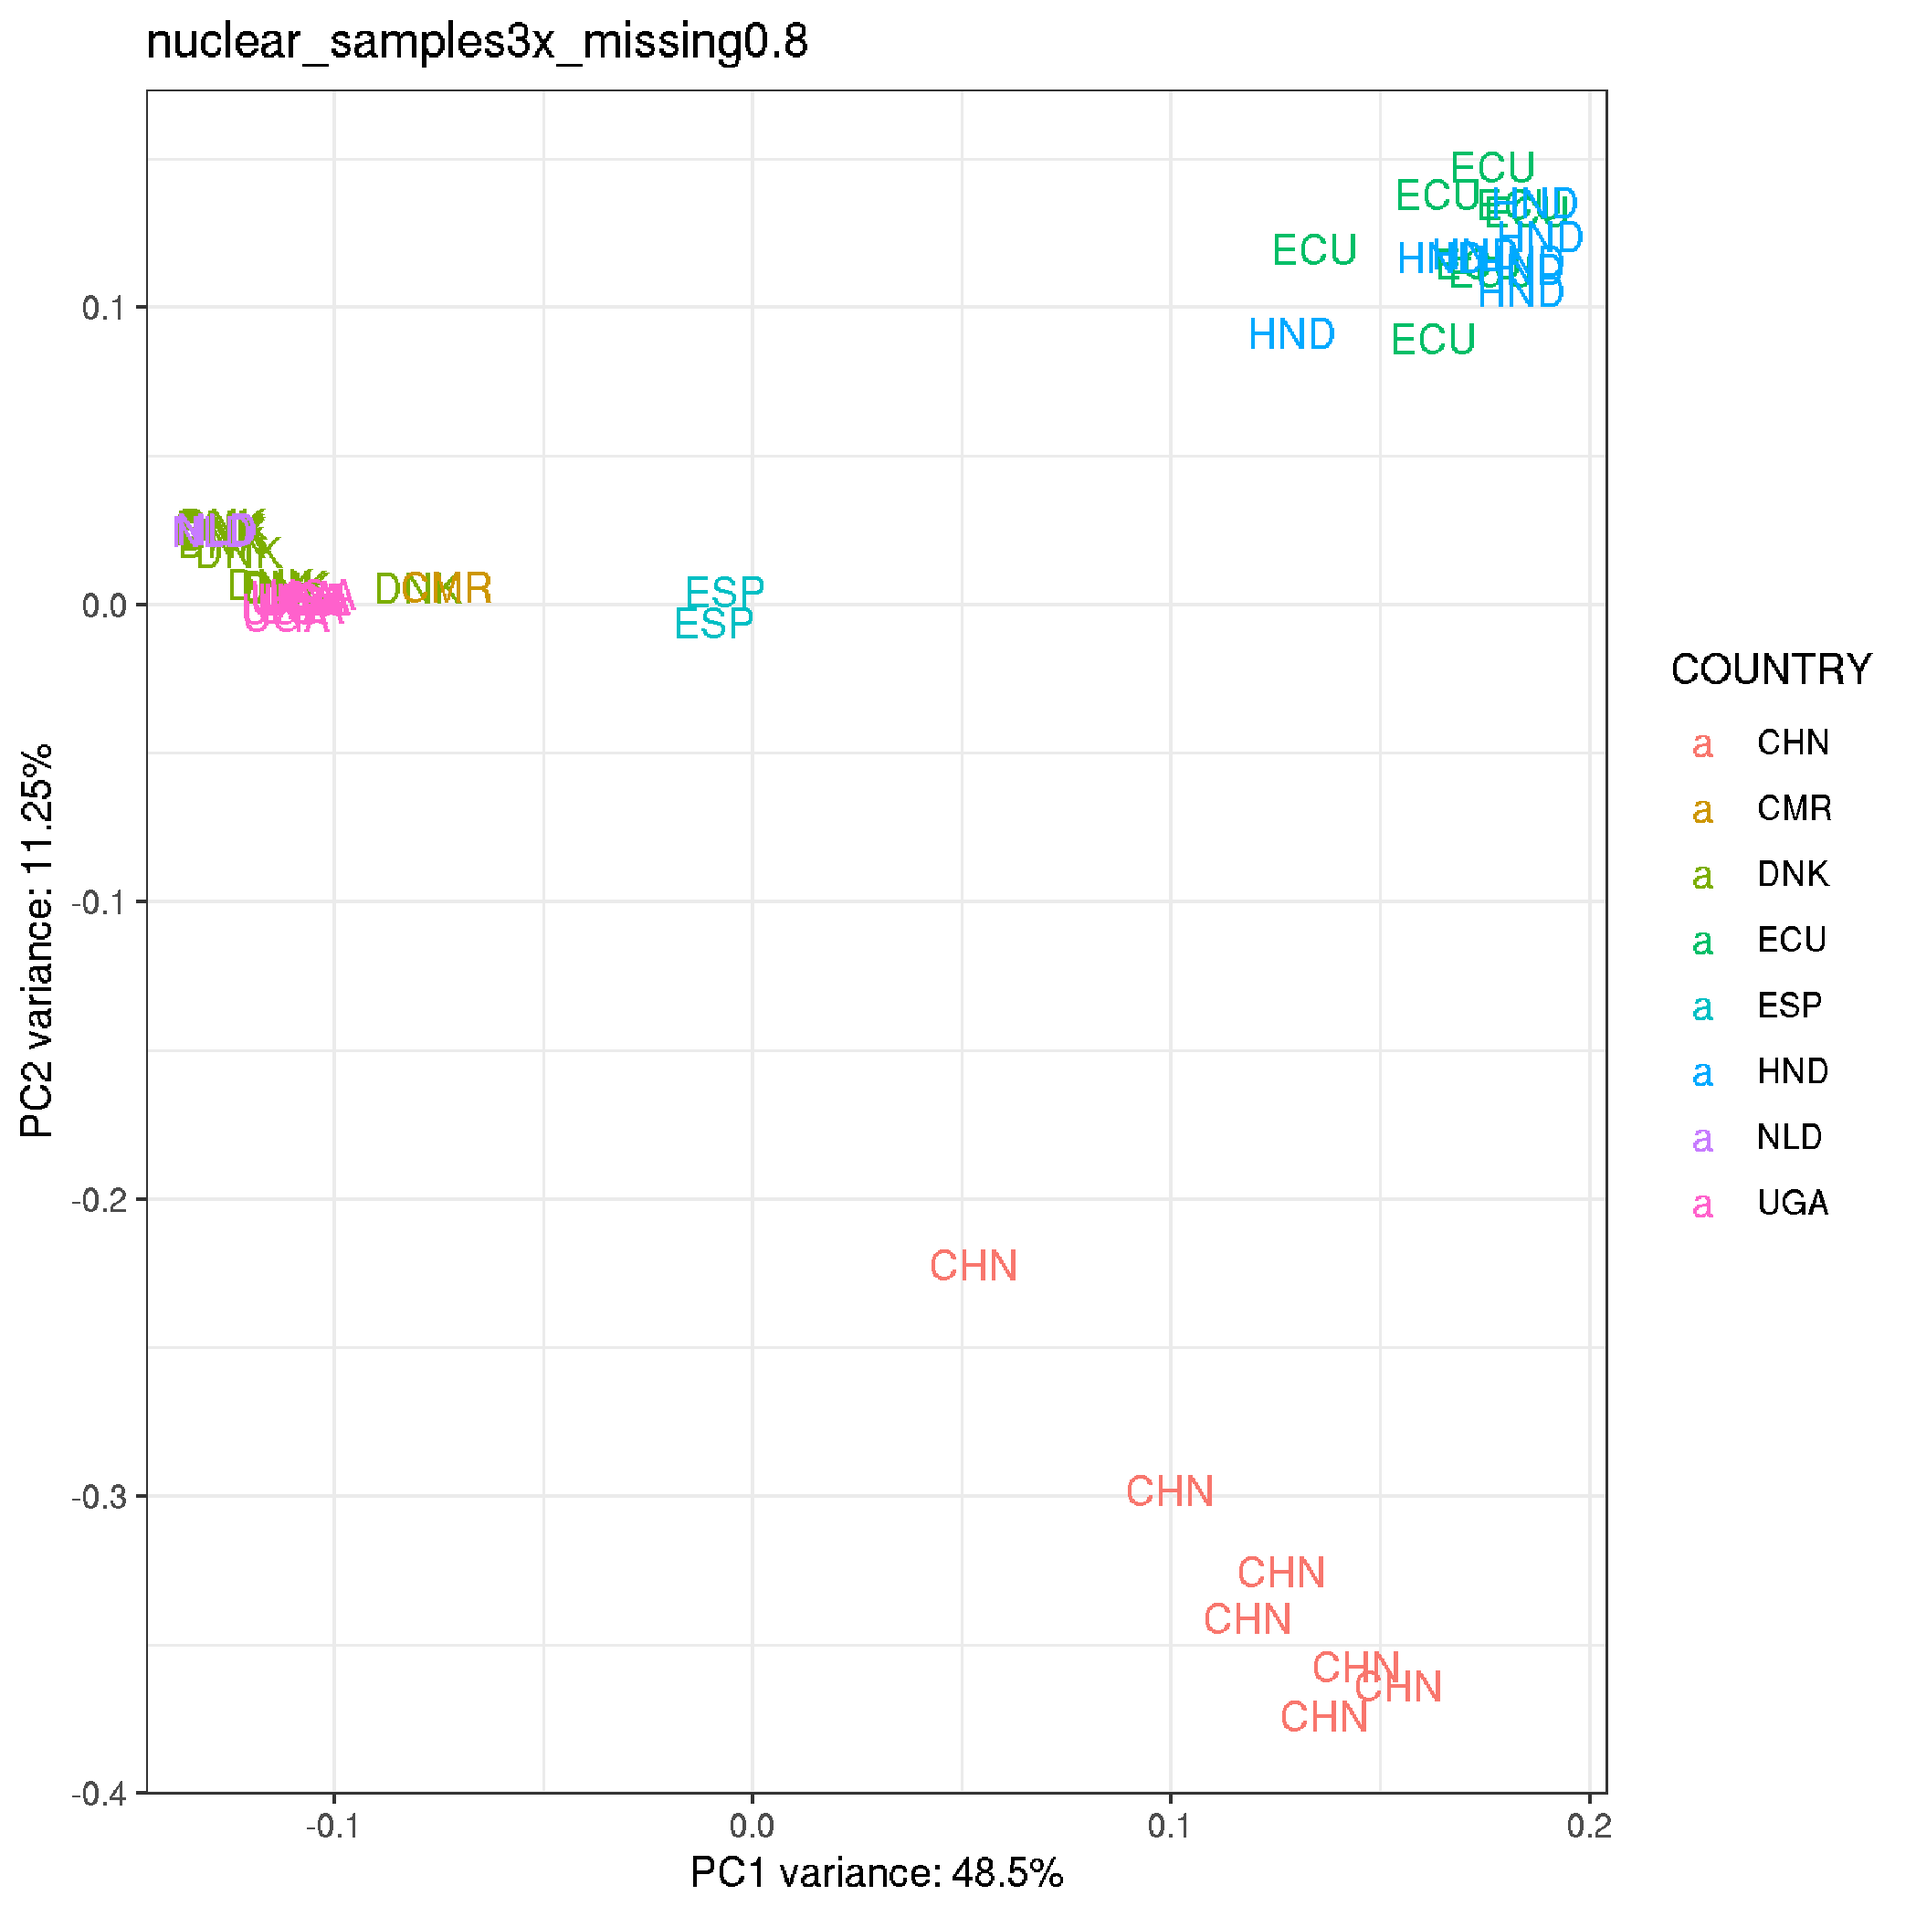
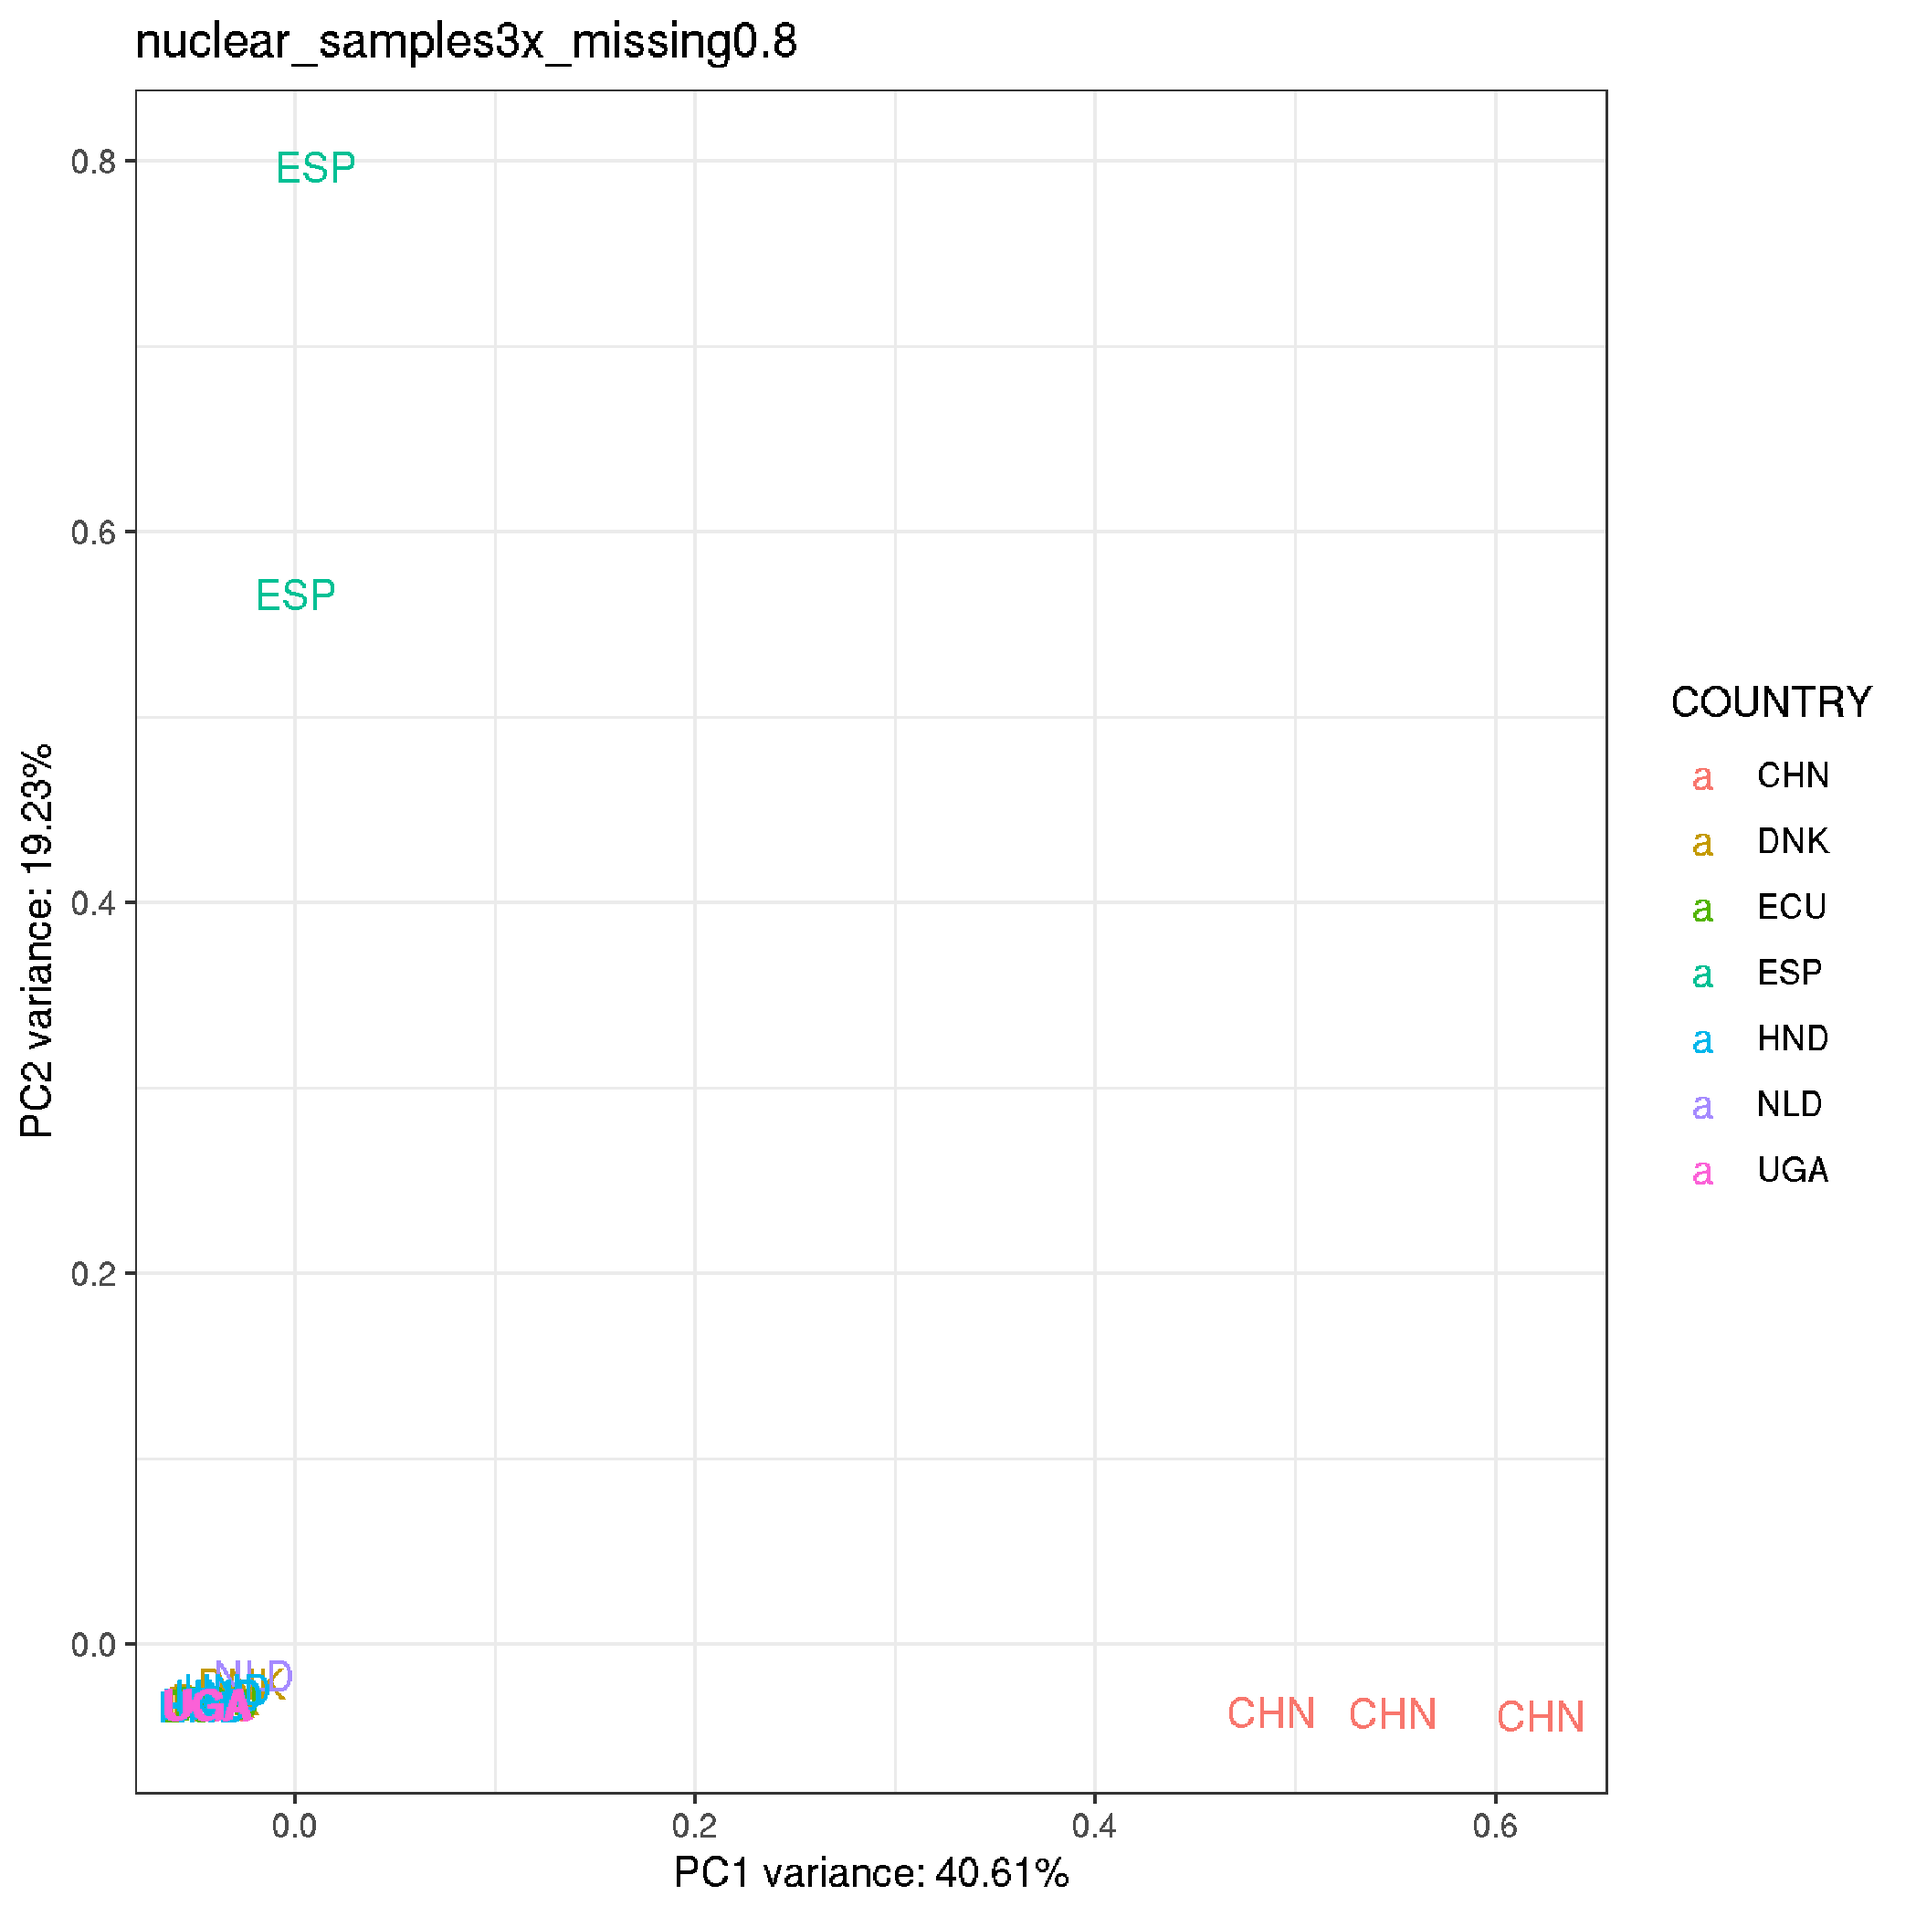
update

diff --git a/03_code/ancient_trichuris.workbook.md b/03_code/ancient_trichuris.workbook.md
@@ -1838,7 +1838,7 @@ vcftools \
 --out nuclear_samples3x_missing0.8
 
 #> After filtering, kept 44 out of 73 Individuals
-#>
+#> After filtering, kept 5618074 out of a possible 6571976 Sites
 ```
 
 ```R
@@ -1848,7 +1848,7 @@ library(SNPRelate)
 
 snpgdsClose(genofile)
 vcf.in <- "nuclear_samples3x_missing0.8.recode.vcf"
-gds<-snpgdsVCF2GDS(vcf.in, "mtDNA.gds", method="biallelic.only")
+gds<-snpgdsVCF2GDS(vcf.in, "nuclear.gds", method="biallelic.only")
 
 genofile <- snpgdsOpen(gds)
 pca <-snpgdsPCA(genofile, num.thread=2,autosome.only = F)
@@ -1890,3 +1890,65 @@ ggplot(tab,aes(EV1,EV2, col = COUNTRY, shape = TIME, label = paste0(TIME,"_",COU
      xlim(-0.14,-0.06) + ylim(0.02,0.045)
 ggsave("plot_PCA_nuclear_samples3x_missing0.8_zoomin.png")
 ```
+- main outliers are colobus and leafmonkey, so will remove and rerun
+```
+vcftools \
+--vcf Trichuris_trichiura.cohort.nuclear_variants.final.recode.vcf \
+--keep nuclear_3x_animalPhonly.list \
+--max-missing 0.8 \
+--recode \
+--out nuclear_samples3x_missing0.8_animalPhonly
+
+#> After filtering, kept 39 out of 73 Individuals
+#> After filtering, kept 6146376 out of a possible 6571976 Sites
+```
+```R
+library(tidyverse)
+library(gdsfmt)
+library(SNPRelate)
+
+snpgdsClose(genofile)
+vcf.in <- "nuclear_samples3x_missing0.8_animalPhonly.recode.vcf"
+gds<-snpgdsVCF2GDS(vcf.in, "nuclear.gds", method="biallelic.only")
+
+genofile <- snpgdsOpen(gds)
+pca <-snpgdsPCA(genofile, num.thread=2,autosome.only = F)
+
+samples <- as.data.frame(pca$sample.id)
+colnames(samples) <- "name"
+metadata <- samples %>% separate(name,c("time", "country","population","host","sampleID"))
+
+
+data <- data.frame(sample.id = pca$sample.id,
+                  EV1 = pca$eigenvect[,1],  
+                  EV2 = pca$eigenvect[,2],
+                  EV3 = pca$eigenvect[,3],
+                  EV4 = pca$eigenvect[,4],
+                  EV5 = pca$eigenvect[,5],
+                  EV6 = pca$eigenvect[,6],    
+                  TIME = metadata$time,
+                  COUNTRY = metadata$country,
+                  POPULATION = metadata$population,
+                  HOST = metadata$host,
+                  stringsAsFactors = FALSE)
+
+
+ggplot(data,aes(EV1, EV2, col = COUNTRY, shape = TIME, label = COUNTRY)) +
+     geom_text(size=4) +
+     theme_bw() +
+     labs(title="nuclear_samples3x_missing0.8_animalPhonly",
+          x = paste0("PC1 variance: ",round(pca$varprop[1]*100,digits=2),"%"),
+          y = paste0("PC2 variance: ",round(pca$varprop[2]*100,digits=2),"%"))
+ggsave("plot_PCA_nuclear_samples3x_missing0.8_animalPhonly.png")
+
+
+ggplot(data,aes(EV1,EV2, col = COUNTRY, shape = TIME, label = paste0(TIME,"_",COUNTRY,"_",POPULATION,"_",HOST))) +
+     geom_text(size=4) +
+     theme_bw() +
+     labs(title="nuclear_samples3x_missing0.8",
+          x = paste0("PC1 variance: ",round(pca$varprop[1]*100,digits=2),"%"),
+          y = paste0("PC2 variance: ",round(pca$varprop[2]*100,digits=2),"%"))
+ggsave("plot_PCA_nuclear_samples3x_missing0.8_animalPhonly_2.png")
+```
+![](../04_analysis/plot_PCA_nuclear_samples3x_missing0.8_animalPhonly.png)
+![](../04_analysis/plot_PCA_nuclear_samples3x_missing0.8_animalPhonly_2.png)
